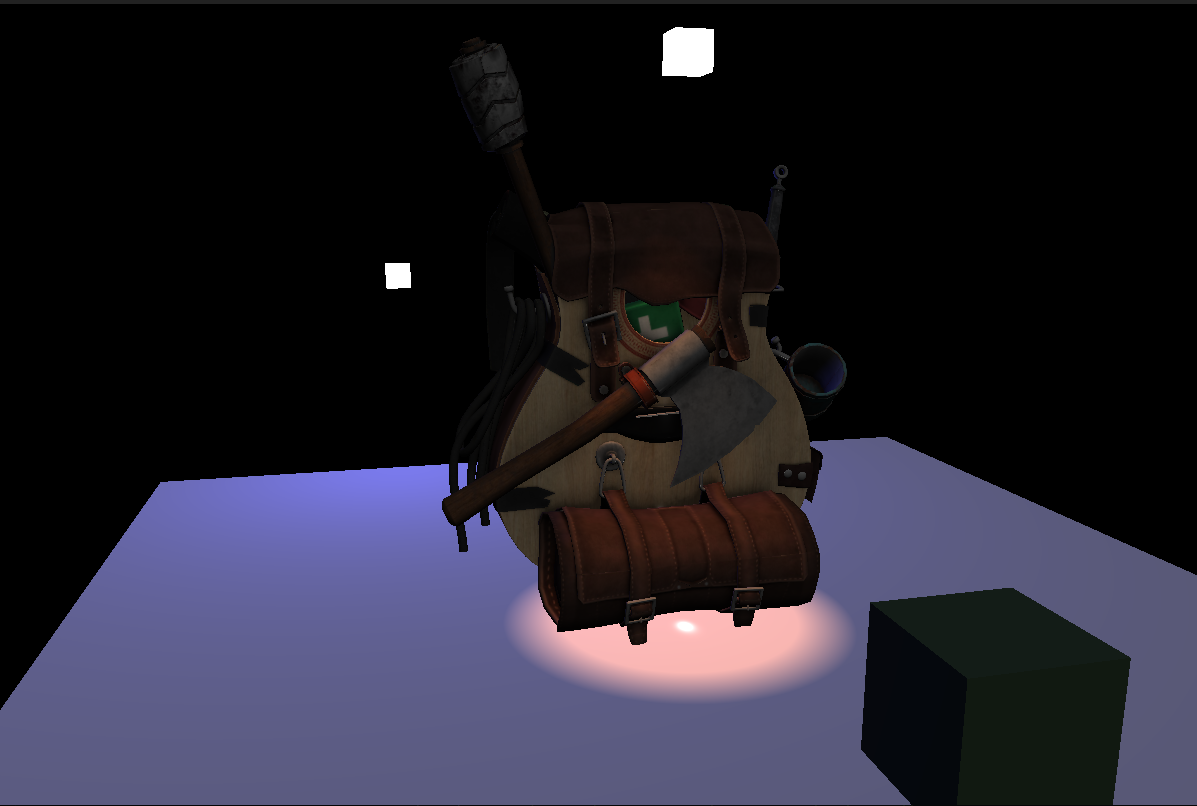
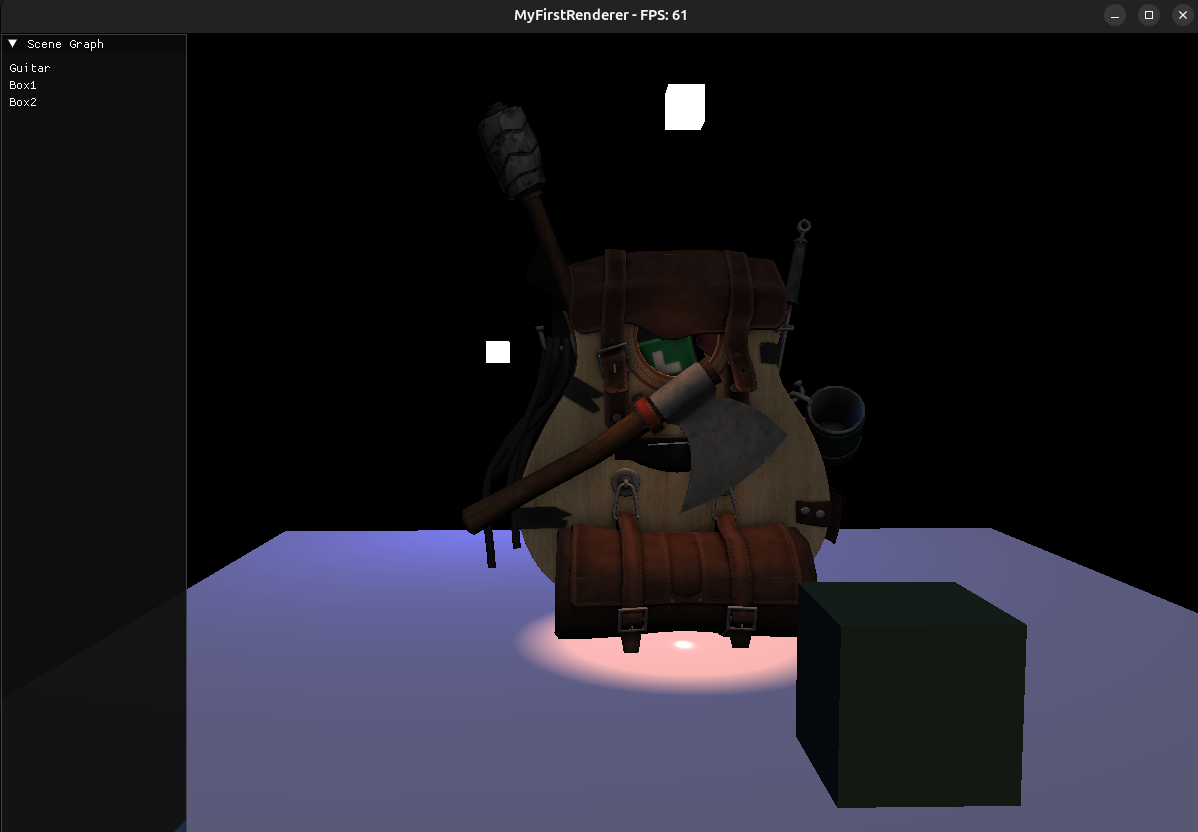
rendering Scene Graph UI now

diff --git a/src/main.cpp b/src/main.cpp
@@ -36,12 +36,6 @@ int main() {
   }
 
   /*
-    UI
-  */
-  ImGui::CreateContext();  // Setup Dear ImGui context
-  UI ui(window.window_);
-
-  /*
     SHADERS
   */
   Shader basicShader("./shaders/vLightShader.glsl",
@@ -96,7 +90,7 @@ int main() {
   glm::vec3 scale = glm::vec3(1.0f, 1.0f, 1.0f);
 
   std::unique_ptr<Entity> guitar = std::make_unique<ModelEntity>(
-      scene.getOrCreateModel("./assets/models/backpack/backpack.obj"),
+      "Guitar", scene.getOrCreateModel("./assets/models/backpack/backpack.obj"),
       Transform(position, scale));
 
   scene.addEntity(std::move(guitar));
@@ -107,23 +101,28 @@ int main() {
   //     Transform(position, scale));
 
   std::unique_ptr<Entity> box = std::make_unique<MeshEntity>(
-      scene.getOrCreateMesh("box"), Transform(position, scale),
+      "Box1", scene.getOrCreateMesh("box"), Transform(position, scale),
       glm::vec3(0.2f, 0.3f, 0.2f));
 
   position = glm::vec3(0.0f, -1.0f, 0.0f);
   scale = glm::vec3(10.0f, 1.0f, 10.0f);
   std::unique_ptr<Entity> box2 = std::make_unique<MeshEntity>(
-      scene.getOrCreateMesh("box"), Transform(position, scale),
+      "Box2", scene.getOrCreateMesh("box"), Transform(position, scale),
       glm::vec3(0.9f, 0.9f, 0.9f));
 
   scene.addEntity(std::move(box));
   scene.addEntity(std::move(box2));
 
-  glEnable(GL_DEPTH_TEST);
+  /*
+    UI
+  */
+  ImGui::CreateContext();  // Setup Dear ImGui context
+  UI ui(window.window_, &scene);
 
   /*
     RENDER LOOP
   */
+  glEnable(GL_DEPTH_TEST);
 
   while (!glfwWindowShouldClose(window.window_)) {
     ui.beginFrame();

diff --git a/src/scene/entitiy.cpp b/src/scene/entitiy.cpp
@@ -1,14 +1,17 @@
 #include "scene/entitiy.hpp"
 
-MeshEntity::MeshEntity(std::shared_ptr<Mesh> mesh, Transform transform)
-    : Entity(transform), mesh_(std::move(mesh)) {
+MeshEntity::MeshEntity(std::string label,
+                       std::shared_ptr<Mesh> mesh,
+                       Transform transform)
+    : Entity(label, transform), mesh_(std::move(mesh)) {
   useColor_ = false;
 };
 
-MeshEntity::MeshEntity(std::shared_ptr<Mesh> mesh,
+MeshEntity::MeshEntity(std::string label,
+                       std::shared_ptr<Mesh> mesh,
                        Transform transform,
                        glm::vec3 color)
-    : Entity(transform), mesh_(std::move(mesh)), color_(color) {
+    : Entity(label, transform), mesh_(std::move(mesh)), color_(color) {
   useColor_ = true;
 };
 
@@ -21,8 +24,10 @@ void MeshEntity::draw(Shader& shader) const {
   }
 }
 
-ModelEntity::ModelEntity(std::shared_ptr<Model> model, Transform transform)
-    : Entity(transform), model_(std::move(model)) {};
+ModelEntity::ModelEntity(std::string label,
+                         std::shared_ptr<Model> model,
+                         Transform transform)
+    : Entity(label, transform), model_(std::move(model)) {};
 
 void ModelEntity::draw(Shader& shader) const {
   shader.setMat4("model", transform_.getModelMatrix());

diff --git a/src/ui.cpp b/src/ui.cpp
@@ -1,7 +1,10 @@
 #include "ui.hpp"
 
-UI::UI(GLFWwindow* window)
-    : window_(window), io_(ImGui::GetIO()), style_(ImGui::GetStyle()) {
+UI::UI(GLFWwindow* window, Scene* scene)
+    : window_(window),
+      io_(ImGui::GetIO()),
+      style_(ImGui::GetStyle()),
+      scene_(scene) {
   float main_scale = ImGui_ImplGlfw_GetContentScaleForMonitor(
       glfwGetPrimaryMonitor());  // Valid on GLFW 3.3+ only
 
@@ -36,7 +39,28 @@ void UI::beginFrame() {
 }
 
 void UI::drawUI() {
-  ImGui::Begin("Hello, world!");
+  ImGui::SetNextWindowPos(ImVec2(0, 0), ImGuiCond_Always);
+
+  int displayWidth;
+  glfwGetFramebufferSize(window_, &displayWidth, &displayHeight_);
+
+  ImVec2 minSize(150, (float)displayHeight_);
+  ImVec2 maxSize(FLT_MAX, (float)displayHeight_);
+
+  ImGui::SetNextWindowSizeConstraints(minSize, maxSize);
+
+  ImGui::Begin("Scene Graph");
+
+  for (auto& rootEntity : scene_->rootEntities_) {
+    Entity* entityPtr = rootEntity.get();
+    auto entityRow = ImGui::Selectable(entityPtr->label_.c_str(),
+                                       selectedEntity_ == entityPtr);
+    // if selected
+    if (entityRow) {
+      selectedEntity_ = entityPtr;
+    }
+  }
+
   ImGui::End();
 };
 

diff --git a/src/scene/entitiy.hpp b/src/scene/entitiy.hpp
@@ -10,8 +10,10 @@
 
 class Entity {
  public:
+  std::string label_;
   Transform transform_;
-  Entity(Transform transform) : transform_(transform) {};
+  Entity(std::string label, Transform transform)
+      : label_(label), transform_(transform) {};
   virtual ~Entity() = default;
   virtual void draw(Shader& shader) const = 0;
 };
@@ -25,9 +27,14 @@ class MeshEntity : public Entity {
 
   MeshEntity() = default;
 
-  MeshEntity(std::shared_ptr<Mesh> mesh, Transform transform);
+  MeshEntity(std::string label,
+             std::shared_ptr<Mesh> mesh,
+             Transform transform);
 
-  MeshEntity(std::shared_ptr<Mesh> mesh, Transform transform, glm::vec3 color);
+  MeshEntity(std::string label,
+             std::shared_ptr<Mesh> mesh,
+             Transform transform,
+             glm::vec3 color);
 
   void draw(Shader& shader) const;
 
@@ -40,7 +47,9 @@ class ModelEntity : public Entity {
 
   ModelEntity() = default;
 
-  ModelEntity(std::shared_ptr<Model> model, Transform transform);
+  ModelEntity(std::string label,
+              std::shared_ptr<Model> model,
+              Transform transform);
 
   void draw(Shader& shader) const;
 

diff --git a/src/ui.hpp b/src/ui.hpp
@@ -1,16 +1,19 @@
 #ifndef UI_H
 #define UI_H
 
-#include <GLFW/glfw3.h>
 #include <stdio.h>
 
 #include "imgui.h"
 #include "imgui_impl_glfw.h"
 #include "imgui_impl_opengl3.h"
 
+#include "scene/scene.hpp"
+
+#include <GLFW/glfw3.h>
+
 class UI {
  public:
-  UI(GLFWwindow* window);
+  UI(GLFWwindow* window, Scene* scene);
 
   ~UI();
 
@@ -24,6 +27,10 @@ class UI {
   GLFWwindow* window_;
   ImGuiIO& io_;
   ImGuiStyle& style_;
+  int displayHeight_;
+
+  Scene* scene_ = nullptr;
+  Entity* selectedEntity_ = nullptr;
 };
 
 #endif
